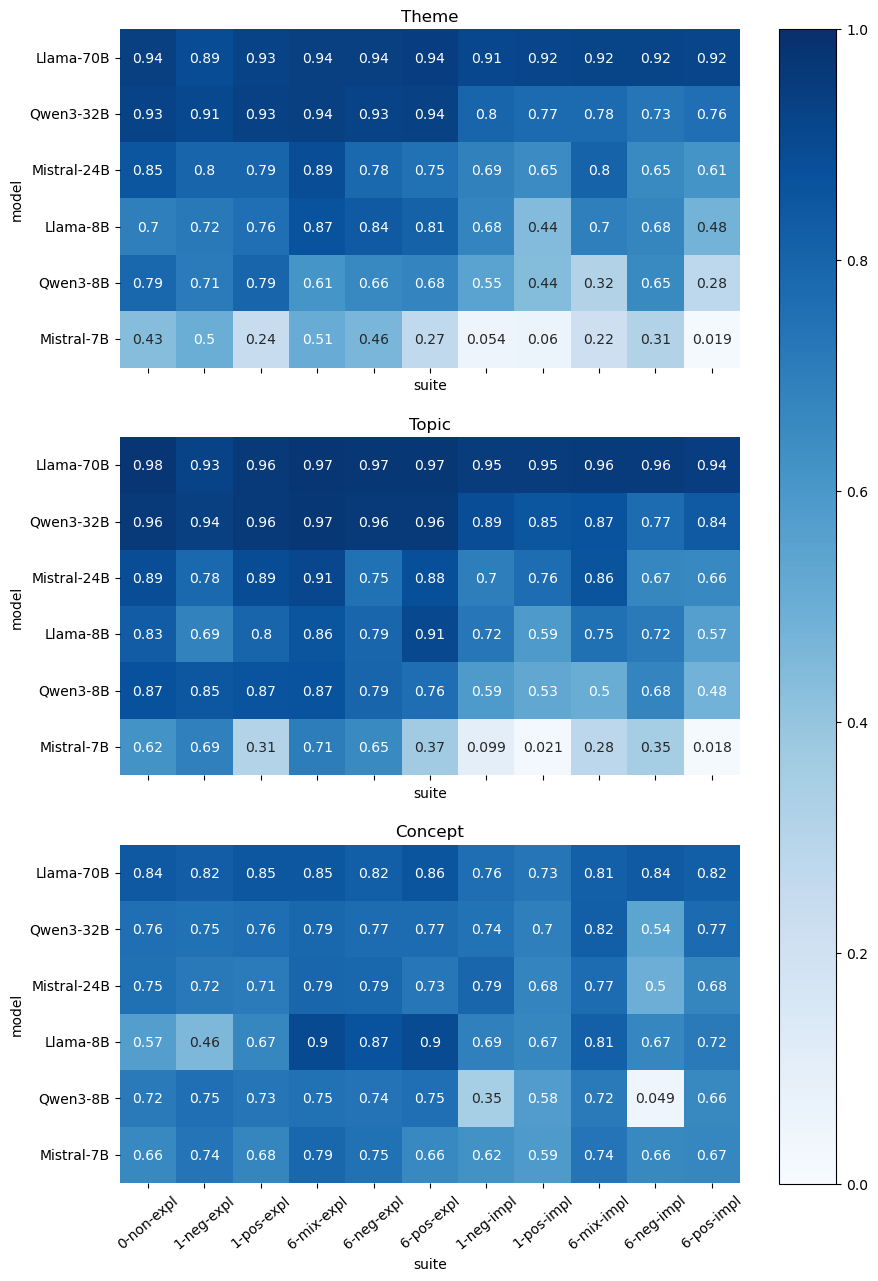
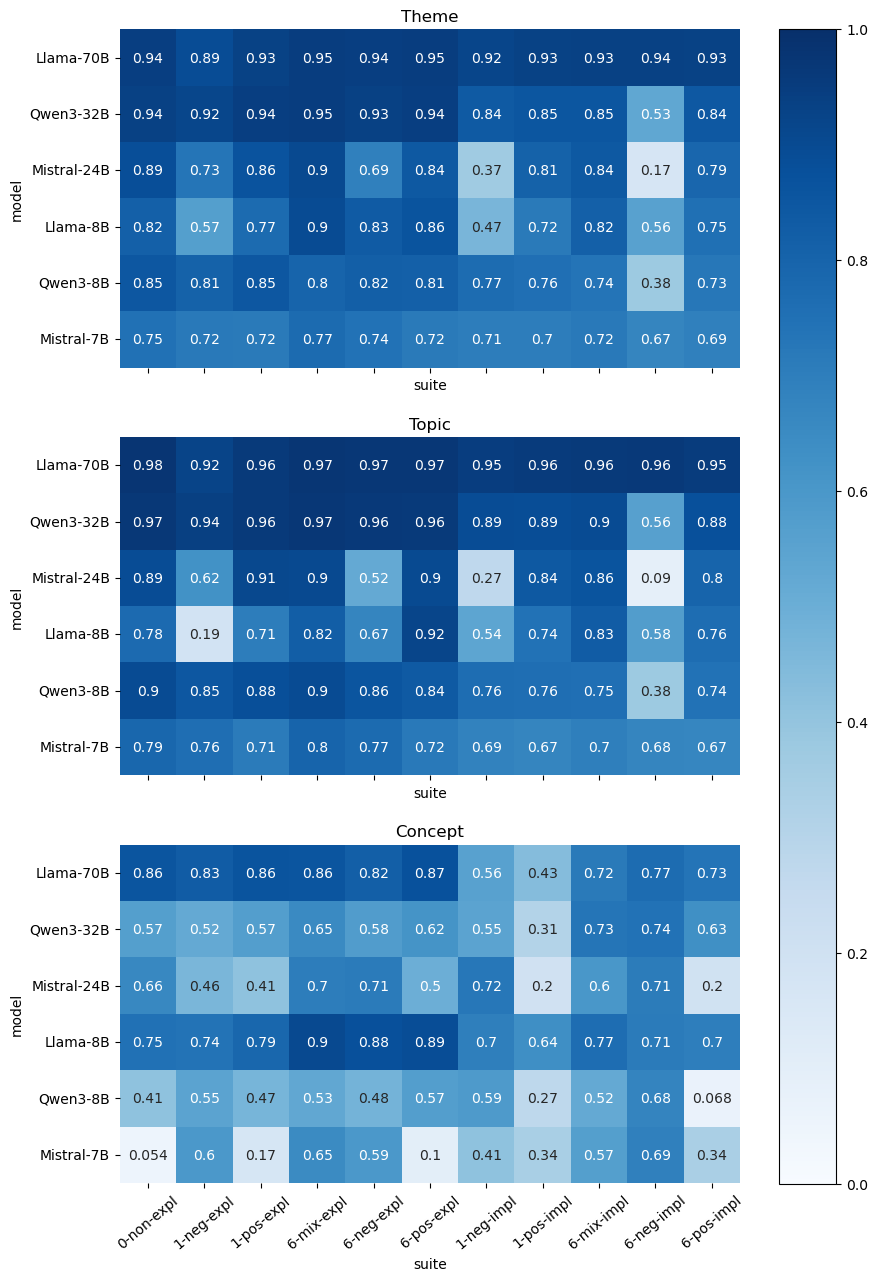
update plots

diff --git a/src/utils/plots.py b/src/utils/plots.py
@@ -14,29 +14,6 @@ from sklearn.metrics import (
 
 from .constants import GT_COLS, PRED_COLS, LABELS, HALLUCINATORY_LABELS, POS_LABELS
 
-
-def normalize(series, pos_label=None):
-    if pos_label is not None:
-        return (
-            series.astype(str)
-            .str.strip('"')
-            .str.lower()
-            .map(lambda x: 1 if x == pos_label else 0)
-        )
-
-    try:
-        pos_label = "no" if series.name == GT_COLS[2] else "yes"
-    except:
-        pos_label = "yes"
-
-    return (
-        series.astype(str)
-        .str.strip('"')
-        .str.lower()
-        .map(lambda x: 1 if x == pos_label else 0)
-    )
-
-
 def wrap_text(text, num_chars=20):
     if isinstance(text, str):
         return "\n".join(wrap(text, num_chars))
@@ -44,33 +21,35 @@ def wrap_text(text, num_chars=20):
     return ["\n".join(wrap(t, num_chars)) for t in text]
 
 
+def normalize(series):
+    return (
+        series.astype(str)
+        .str.strip('"')
+        .str.lower()
+    )
+
 def calculate_metrics(
-    df, cols1=GT_COLS, cols2=PRED_COLS, measure_hallucination_detection=True
+    df, cols1=GT_COLS, cols2=PRED_COLS
 ):
     metrics = {}
     labels = ["theme", "topic", "concept"]
     for i, (c1, c2) in enumerate(zip(cols1, cols2)):
-        y_true = normalize(df[c1], POS_LABELS[i])
-        y_pred = normalize(df[c2], POS_LABELS[i])
+        # Normalize labels to "yes" and "no"
+        y_true = normalize(df[c1])
+        y_pred = normalize(df[c2])
 
-        # If measure_detection is True, we want to capture metrics for correctly predicted hallucinations
-        # Then, the labels should be 0, 0, 1
-        # Otherwise, measure correctly classified non-hallucinatory data points
-        # Labels are thus 1, 1, 0
-        label = 1 if HALLUCINATORY_LABELS[i] == "yes" else 0
-
-        measure_label = label if measure_hallucination_detection else np.abs(label - 1)
-
-        #print(f"{measure_hallucination_detection = }, label = {labels[i]}, hallucinatory label = {HALLUCINATORY_LABELS[i]}, {measure_label = }")
+        # Map both to 0, 1
+        y_true = y_true.map(lambda x: 1 if x == "yes" else 0)
+        y_pred = y_pred.map(lambda x: 1 if x == "yes" else 0)
 
         metrics[labels[i] + "_precision"] = precision_score(
-            y_true, y_pred, pos_label=int(measure_label), zero_division=np.nan
+            y_true, y_pred, pos_label=0, zero_division=np.nan
         )
         metrics[labels[i] + "_recall"] = recall_score(
-            y_true, y_pred, pos_label=int(measure_label), zero_division=np.nan
+            y_true, y_pred, pos_label=0, zero_division=np.nan
         )
         metrics[labels[i] + "_f1"] = f1_score(
-            y_true, y_pred, pos_label=int(measure_label), zero_division=np.nan
+            y_true, y_pred, pos_label=1, zero_division=np.nan
         )  # Flip label to match labeling scheme
 
     return metrics
@@ -78,13 +57,13 @@ def calculate_metrics(
 
 def calculate_accuracy(df):
 
-    gt_theme = normalize(df[GT_COLS[0]], pos_label="yes")
-    gt_topic = normalize(df[GT_COLS[1]], pos_label="yes")
-    gt_concept = normalize(df[GT_COLS[2]], pos_label="no")
+    gt_theme = normalize(df[GT_COLS[0]])
+    gt_topic = normalize(df[GT_COLS[1]])
+    gt_concept = normalize(df[GT_COLS[2]])
 
-    pred_theme = normalize(df[PRED_COLS[0]], pos_label="yes")
-    pred_topic = normalize(df[PRED_COLS[1]], pos_label="yes")
-    pred_concept = normalize(df[PRED_COLS[2]], pos_label="no")
+    pred_theme = normalize(df[PRED_COLS[0]])
+    pred_topic = normalize(df[PRED_COLS[1]])
+    pred_concept = normalize(df[PRED_COLS[2]])
 
     # Accuracy calculation
     theme_acc = gt_theme == pred_theme
@@ -97,7 +76,6 @@ def calculate_accuracy(df):
         "concept_accuracy": concept_acc.mean(),
         "total_accuracy": (theme_acc & topic_acc & concept_acc).mean(),
     }
-
 
 def plot_confusion_matrices(
     df,